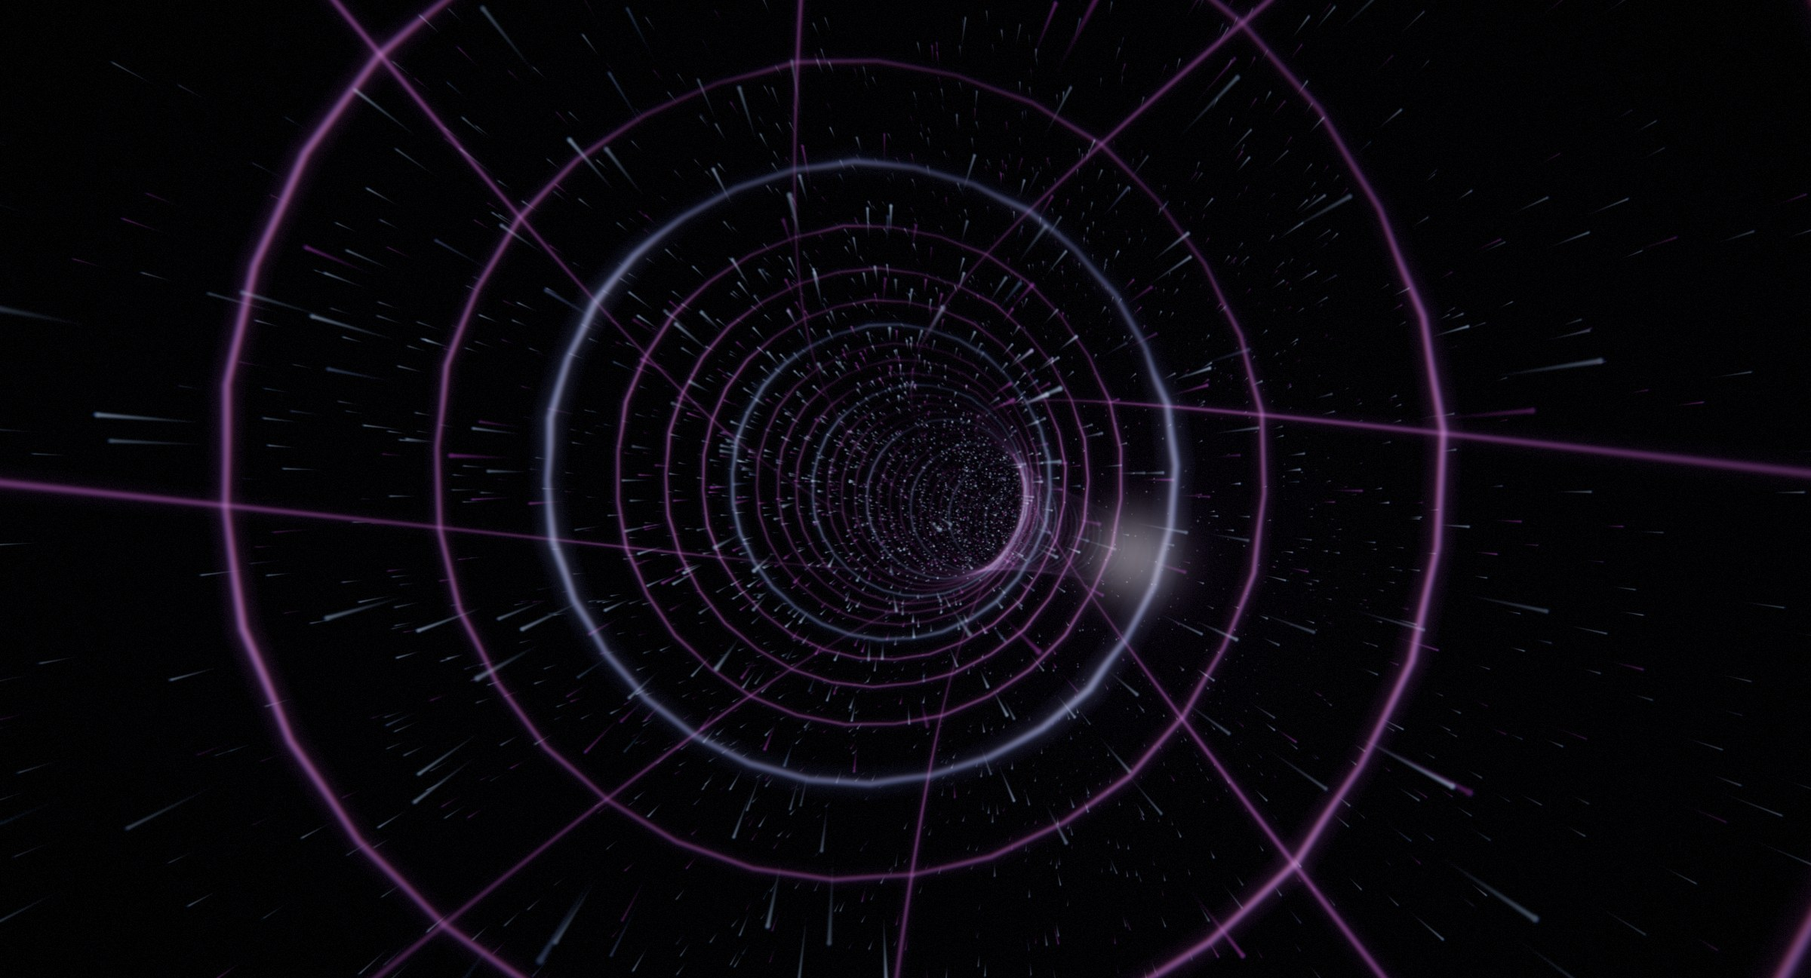
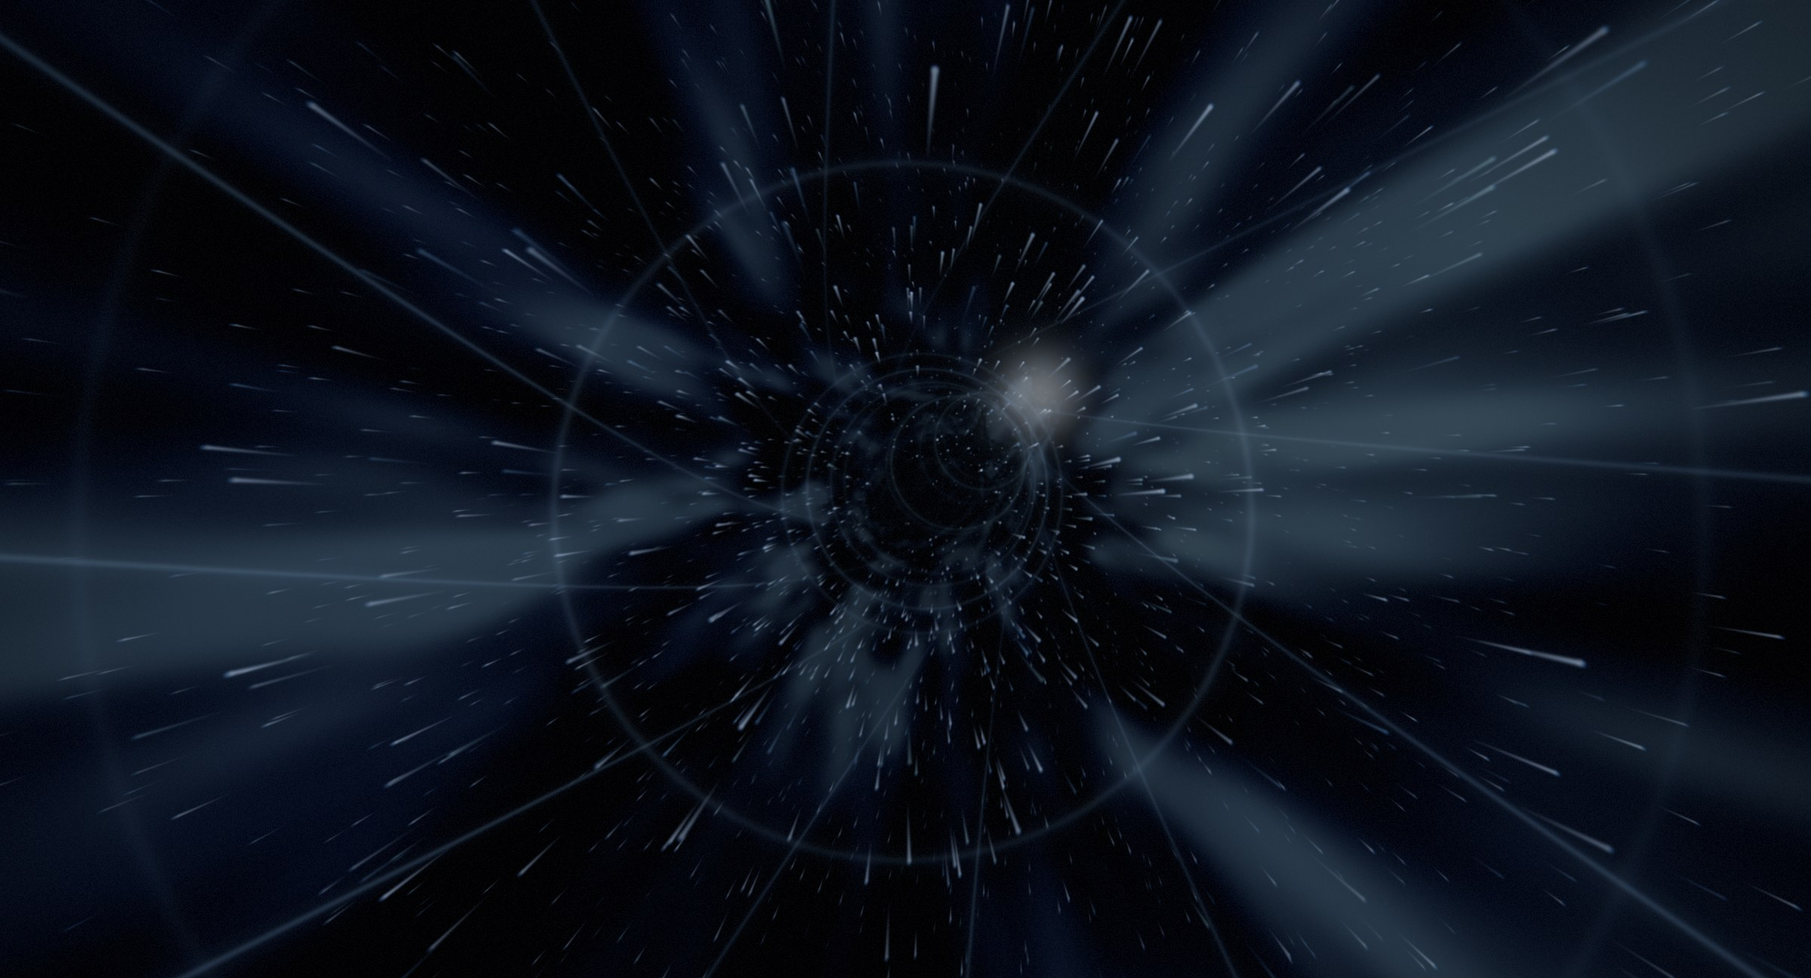
Warp: haze on the walls, hoops of mist, nothing keyed to the beat tracker
The first build was a wireframe, and it was intrusive in three ways: a
hard ring every eight units passing the camera was a rhythm of its own,
unrelated to the music's; a ring rushing past as a bar across the frame
was the loudest thing in the picture; and the pulses shot down the
tunnel on the tempo tracker's phase-locked beat landed a little off the
actual hits often enough to read as wrong.

So the walls are now a sleeve of haze - a quarter-resolution pass, like
the particle backdrop, that meets each eye ray with the bent tube by a
few fixed-point steps and clouds the wall there with noise in the
tunnel's own coordinates, long along the travel so it streams, lit
around its circumference by the slow spectrum, breathing with the bass.
The rings become faint, wide hoops of mist at no regular interval, a
third of them missing, each its own size and brightness, dissolving
before they reach the frame's edge. The rails become a dozen faint
threads. Nothing answers the beat tracker: what is immediate answers
the onset, gently - a small lurch, a touch on the nearest hoops, a
broad faint wave down the tunnel - and the rest follows the slow
envelopes. The dust inside the tube fades long before the space outside
does, since past a hundred units it all projected into one disc at the
vanishing point.

About two milliseconds at 2400x1285, most of it the haze.

Claude-Session: https://claude.ai/code/session_01URdTcD1Y9pgWXw1q6JwGKG

diff --git a/src/main.js b/src/main.js
@@ -79,7 +79,7 @@ class App {
     // The warp: the tunnel's travel, bend and light, all eased. It begins
     // somewhere along its period, so no two loads open on the same rings.
     this.warp = {
-      s: Math.random() * 7680, speed: 6, boost: 0, spin: 0, flow: 0, flowRate: 3,
+      s: Math.random() * 7680, travel: 0, speed: 6, boost: 0, spin: 0, flow: 0, flowRate: 3,
       kx: 0, ky: 0, gazeYaw: 0, gazePitch: 0, roll: 0,
       energy: 0, energySlow: 0, kick: 0, midEnv: 0, warm: 0,
       pitchShort: 0, pitchLong: 0, steer: 0, steerAvg: 0,
@@ -87,7 +87,7 @@ class App {
       pulses: [{ pos: 0, amp: 0 }, { pos: 0, amp: 0 }], refractory: 0, onsetArmed: true,
       flash: 0, flashArmed: true, shakeX: 0, shakeY: 0,
     };
-    this.warpUniforms = new Float32Array(24);
+    this.warpUniforms = new Float32Array(28);
     // The flight begins somewhere along its period, so no two loads open on
     // the same lights.
     this.voyage = {
@@ -623,8 +623,8 @@ class App {
     else if (voyage) { exposure = 1.04 + Math.min(0.10, a.level * 0.08); bloomStrength = Math.min(0.62, 0.44 + a.level * 0.16 + beatPulse * 0.05); grain = 0.006; }
     else if (warp) {
       const b = this.warp.boost;
-      exposure = 1.05 + Math.min(0.08, a.level * 0.06) + b * 0.08;
-      bloomStrength = Math.min(0.70, 0.46 + a.level * 0.14 + b * 0.10 + beatPulse * 0.04);
+      exposure = 1.05 + 0.06 * this.warp.energy + b * 0.08;
+      bloomStrength = Math.min(0.70, 0.46 + 0.12 * this.warp.energy + b * 0.10);
       grain = 0.007;
     }
 
@@ -642,9 +642,9 @@ class App {
       beat: a.beat * transientSens,
       beatAge: a.beatAge,
       flux: a.flux * sens,
-      // The flight reads a slower envelope: lights that flickered at the
-      // analyser's own attack looked nervous, not lit.
-      spectrum: voyage ? this.voyageSpectrum : spectrum,
+      // The flight and the warp read a slower envelope: lights that
+      // flickered at the analyser's own attack looked nervous, not lit.
+      spectrum: (voyage || warp) ? this.voyageSpectrum : spectrum,
       camZoom: this.cam.zoom,
       camAngle: this.cam.angle,
       camX: this.cam.x,
@@ -684,7 +684,7 @@ class App {
       currentStrands: current ? preset.sheets * preset.strands : 0,
       warp: this.warpUniforms,
       warpStars: warp ? preset.stars : 0,
-      warpRails: warp ? 8 : 0,
+      warpRails: warp ? 12 : 0,
       modeData: still ? this.modeData : null,
       plateGrains: still ? preset.grains : 0,
       composeCentreX: this.compose.x,
@@ -978,16 +978,22 @@ class App {
    * are all the music's, and the throttle is the user's.
    *
    * Speed is the phrase - level and density over the last second or so -
-   * braked almost to a stop by a lull, with a lurch on every beat that
-   * relaxes before the next; the held throttle adds a burn on top that
-   * ramps over a second and coasts off over a little longer, with a flash
-   * as it reaches full. Direction is the melody's: a line rising above
-   * where it has been sitting bends the tunnel upward, falling bends it
-   * down, and each phrase's inhale sweeps it left or right - the way the
-   * melody leans, else the other way from last time - for a few seconds.
-   * What is set is the curvature ahead, through a spring, never a heading;
-   * the camera looks into the bend and banks with it. The lattice spins
-   * with the mids and the speed; the beats shoot rings of light down it.
+   * braked almost to a stop by a lull, with a small lurch on a transient
+   * that relaxes before the next; the held throttle adds a burn on top
+   * that ramps over a second and coasts off over a little longer, with a
+   * flash as it reaches full. Direction is the melody's: a line rising
+   * above where it has been sitting bends the tunnel upward, falling bends
+   * it down, and each phrase's inhale sweeps it left or right - the way
+   * the melody leans, else the other way from last time - for a few
+   * seconds. What is set is the curvature ahead, through a spring, never a
+   * heading; the camera looks into the bend and banks with it. The lattice
+   * turns with the mids and the speed; a transient sends a faint wave of
+   * light down the tunnel.
+   *
+   * Nothing here is keyed to the tempo tracker's beat: its phase-locked
+   * pulse can sit a little off the hits, and a flash a little off the hit
+   * reads as wrong where no flash would not. The onset is the transient
+   * the analyser actually heard.
    */
   #updateWarp(dt, active) {
     const a = this.audio;
@@ -1020,13 +1026,14 @@ class App {
     const cruise = clamp((10 + w.energy * 42 + swell * 8) * brake * sens, 3, 70);
     const target = cruise + w.boost * w.boost * (110 + cruise * 2.2);
     w.speed += (target - w.speed) * tau(target > w.speed ? 0.7 : 1.4);
-    // The beat's lurch: a fraction of the speed for a moment, relaxing
-    // before the next beat so it cannot pile up.
-    const beatNow = a.beatAge < dt * 1.5;
-    w.kick *= Math.exp(-dt / 0.3);
-    if (beatNow) w.kick = Math.max(w.kick, clamp(a.beat, 0, 1.6) * 0.7 * gate);
-    const speedNow = w.speed * (1 + 0.22 * w.kick);
+    // A transient's lurch: a small fraction of the speed for a moment,
+    // relaxing before the next so it cannot pile up.
+    const onset = clamp(m.onset, 0, 1) * gate;
+    w.kick = Math.max(w.kick * Math.exp(-dt / 0.35), onset);
+    const speedNow = w.speed * (1 + 0.06 * w.kick);
     w.s = (w.s + speedNow * dt) % 7680;
+    // Unwrapped, for the haze's noise, which has no period to wrap in.
+    w.travel += speedNow * dt;
 
     // -- direction ---------------------------------------------------------------
     // The melody, relatively: a line above where it has been sitting.
@@ -1085,23 +1092,23 @@ class App {
     w.flowRate += (flowTarget - w.flowRate) * tau(1.0);
     w.flow = (w.flow + dt * w.flowRate) % (2 * Math.PI);
 
-    // -- the pulses --------------------------------------------------------------
-    // A beat shoots a ring of light down the tunnel from the camera when
-    // the tempo is trusted, else an onset does; two may be in flight.
+    // -- the waves ---------------------------------------------------------------
+    // A transient sends a broad, faint wave of light down the tunnel from
+    // the camera; two may be in flight, and a new one waits for a slot
+    // whose wave has faded.
     w.refractory = Math.max(0, w.refractory - dt);
     if (m.onset < 0.25) w.onsetArmed = true;
-    const onsetNow = trust <= 0.45 && m.onset > 0.5 && w.onsetArmed;
     const slot = w.pulses[0].amp <= w.pulses[1].amp ? 0 : 1;
-    if (((beatNow && trust > 0.45) || onsetNow) && w.refractory <= 0 && gate > 0.5 && w.pulses[slot].amp < 0.4) {
+    if (m.onset > 0.55 && w.onsetArmed && w.refractory <= 0 && gate > 0.5 && w.pulses[slot].amp < 0.2) {
       const p = w.pulses[slot];
       p.pos = w.s + 2;
-      p.amp = 0.5 + 0.5 * clamp(Math.max(a.beat, m.onset), 0, 1);
-      w.refractory = beatNow ? 0.25 : 0.6;
+      p.amp = 0.25 + 0.2 * onset;
+      w.refractory = 0.4;
       w.onsetArmed = false;
     }
     for (const p of w.pulses) {
-      p.pos = (p.pos + dt * (speedNow + 320)) % 7680;
-      p.amp *= Math.exp(-dt / 0.55);
+      p.pos = (p.pos + dt * (speedNow + 180)) % 7680;
+      p.amp *= Math.exp(-dt / 0.8);
     }
 
     // -- the grade's inputs ------------------------------------------------------
@@ -1127,6 +1134,7 @@ class App {
     u[14] = w.pulses[1].pos; u[15] = w.pulses[1].amp;
     u[16] = w.flash; u[17] = w.kick; u[18] = clamp(w.energy, 0, 1); u[19] = w.warm;
     u[20] = vpU; u[21] = vpV; u[22] = w.shakeX; u[23] = w.shakeY;
+    u[24] = w.travel;
   }
 
   /**

diff --git a/src/renderer.js b/src/renderer.js
@@ -29,14 +29,14 @@ const STRAND_VERTS = 450;
 // The warp's lattice: vertices per ring, (SIDES + 1) * 2, and per rail,
 // (RAIL_SEGS + 1) * 2, and the rings that cover its reach, FAR / spacing
 // plus one, all from warp.wgsl.
-const RING_VERTS = 66;
+const RING_VERTS = 130;
 const RAIL_VERTS = 194;
-const WARP_RINGS = 52;
+const WARP_RINGS = 30;
 
 const SPECTRUM_BINS = 128;
 const MODE_DATA_FLOATS = 4096;
 const PARTICLE_STRIDE = 40; // bytes: pos, vel, home, seed, life, depth, band
-const UNIFORM_FLOATS = 164;
+const UNIFORM_FLOATS = 168;
 
 const U = {
   resX: 0, resY: 1, invX: 2, invY: 3,
@@ -65,7 +65,7 @@ const U = {
 };
 const SCULPT_FLOATS = 28;
 const EMPTY_SCULPT = new Float32Array(SCULPT_FLOATS);
-const WARP_FLOATS = 24;
+const WARP_FLOATS = 28;
 const EMPTY_WARP = new Float32Array(WARP_FLOATS);
 
 function clamp01(value) {
@@ -536,9 +536,11 @@ export class Renderer {
     });
 
     // --- warp -------------------------------------------------------------
-    // The tunnel: its backdrop, then the stars, the rails and the rings,
+    // The tunnel: the haze on its walls, drawn small like the particle
+    // backdrop and blitted up, then the stars, the rails and the rings,
     // every one of them additive light with nothing to occlude, so there
-    // is no depth. The flight's bind group serves: uniforms and spectrum.
+    // is no depth. The haze reads the spectrum in the fragment stage, so
+    // it takes the backdrop's layout; the strips take the flight's.
     const warpStrip = (vs, fs) => d.createRenderPipeline({
       layout: voyagePl,
       vertex: { module: this.modules.warp, entryPoint: vs },
@@ -549,12 +551,12 @@ export class Renderer {
       },
       primitive: { topology: 'triangle-strip' },
     });
-    this.warpBgPipeline = d.createRenderPipeline({
-      layout: voyagePl,
+    this.warpHazePipeline = d.createRenderPipeline({
+      layout: d.createPipelineLayout({ bindGroupLayouts: [this.bgLayout] }),
       vertex: { module: this.modules.warp, entryPoint: 'vsFull' },
       fragment: {
         module: this.modules.warp,
-        entryPoint: 'bgFs',
+        entryPoint: 'hazeFs',
         targets: [{ format: 'rgba16float' }],
       },
       primitive: { topology: 'triangle-list' },
@@ -1162,7 +1164,7 @@ export class Renderer {
       pass.end();
     }
 
-    if (particle) {
+    if (particle || warp) {
       const pass = encoder.beginRenderPass({
         label: 'background-quarter',
         colorAttachments: [{
@@ -1172,7 +1174,7 @@ export class Renderer {
           storeOp: 'store',
         }],
       });
-      pass.setPipeline(this.bgPipeline);
+      pass.setPipeline(warp ? this.warpHazePipeline : this.bgPipeline);
       pass.setBindGroup(0, this.bgBindGroup);
       pass.draw(3);
       pass.end();
@@ -1228,11 +1230,12 @@ export class Renderer {
         pass.setPipeline(this.voyagePipeline);
         pass.draw(4, skyCount + lightCount);
       } else if (warp) {
-        // The tunnel: the backdrop with its core, the stars, the rails,
-        // the rings.
-        pass.setBindGroup(0, this.voyageBindGroup);
-        pass.setPipeline(this.warpBgPipeline);
+        // The tunnel: the haze and the core, expanded from the small
+        // target, then the stars, the rails, the rings.
+        pass.setPipeline(this.blitPipeline);
+        pass.setBindGroup(0, this.blitBindGroup);
         pass.draw(3);
+        pass.setBindGroup(0, this.voyageBindGroup);
         if (starCount > 0) {
           pass.setPipeline(this.warpStarPipeline);
           pass.draw(4, starCount);

diff --git a/README.md b/README.md
@@ -97,14 +97,21 @@ Five rendering approaches, different algorithms rather than different settings, 
 Its five styles are below.
 
 **warp** is a tunnel, flown through, with the throttle in your hand.
-A lattice of light - a ring every eight units, every fourth a gate in the accent colour, and eight rails running the length of it, corkscrewing slowly - with a field of stars inside the tube and in the space beyond its walls, seen from a camera travelling down its axis toward the light at the far end.
+A sleeve of haze on the tunnel's walls, streaming past; hoops of mist along it at no regular interval, a quarter of them gates in the accent colour; a dozen faint threads running its length, corkscrewing slowly; and a field of stars inside the tube and in the space beyond its walls - all seen from a camera travelling down its axis toward the light at the far end.
 It is the piece's answer to the hyperspace jump: hold the pointer, or shift, and the flight burns from a cruise of a few dozen units a second to well over two hundred - the stars draw out into streaks, the frame streams toward the vanishing point, the colour splits, the image shakes, and a flash marks the jump; let go and it coasts back down.
 
 ![the warp, bending into a phrase](docs/warp.jpg)
 
 ![under the burn](docs/warp-burn.jpg)
 
-Nothing here is stored: every ring, rail sample and star is derived in the vertex stage from its instance index, a hash and the distance travelled, drawn into the same HDR target as the particles so the bloom and the grade are shared, and the whole mode costs about half a millisecond at 2400x1285.
+The haze is a fullscreen pass drawn at quarter resolution and expanded, like the particle backdrop: for each pixel the eye ray is met with the tube - solved on the bent arc by a few fixed-point steps from the straight tube's answer - and the wall there is a cloud of noise in the tunnel's own coordinates, long along the travel and narrow around it, so it streams; it is dim right beside the lens, fullest in the middle distance, and dissolves far ahead into the core.
+Nothing else is stored: every hoop, thread sample and star is derived in the vertex stage from its instance index, a hash and the distance travelled.
+All of it is drawn into the same HDR target as the particles so the bloom chain and the grade are shared, and the whole mode costs about two milliseconds at 2400x1285, most of it the haze, against the particle pass's three at the same size.
+
+The first build of this was a wireframe - a hard ring every eight units, every fourth a gate, the beat tracker's pulses shot down them - and it was intrusive in three ways worth recording.
+Evenly spaced rings passing the camera are a rhythm of their own, and one that has nothing to do with the music's; so the hoops now sit off their stations by up to forty percent, a third are missing, and each has its own brightness and size.
+A ring rushing past as a bar across the frame is the loudest thing in the picture; so the hoops dissolve before they reach the frame's edge.
+And a flash keyed to the tempo tracker's phase-locked beat lands a little off the actual hit often enough to read as wrong, where no flash at all would not; so nothing here answers the beat tracker - what is immediate answers the onset, the transient the analyser actually heard, and gently, and everything else follows the slow envelopes.
 
 The tunnel is built in the camera's own frame.
 Ahead of the camera it is a circular arc, and the music sets that arc's curvature: a point at arc distance *d* sits on the arc in a frame carried along it, so while the curvature holds steady the travel is exactly what a camera following the bend would see, and when the curvature changes the road ahead visibly re-bends toward the new direction.
@@ -114,13 +121,14 @@ The phrases sweep it left and right: each inhale - the last second sitting above
 The curvature follows through a spring, never a heading; the camera looks into the bend the way a driver does and banks into it, so the vanishing point, and the core of light at it, move across the frame with the turn.
 A lull straightens the road, and the burn gentles the bends, or the tunnel whips.
 
-The speed is the phrase: level and density over the last second, braked almost to a stop by a lull, with a lurch on every beat that relaxes before the next.
-The rings read the spectrum around their circumference - the bass at the floor, the top of the band at the ceiling, mirrored on the two sides - so the tunnel is a spectrum seen down its own axis, its loud sides bright and thick and its quiet ones nearly gone; they breathe with the bass, and every beat shoots a ring of light down the tunnel ahead.
-The rails carry a wave of light toward the lens, one per beat while the tempo is trusted.
-The lattice spins with the mids and the speed; the stars sparkle with the highs, fill in as the music fills, and thin in a lull.
-The colour is the mood's cool bank, travelling as the harmony does, with the gates in the accent.
+The speed is the phrase: level and density over the last second, braked almost to a stop by a lull, with a small lurch on a transient that relaxes before the next.
+The walls and the hoops read the spectrum around the tunnel's circumference - the bass at the floor, the top of the band at the ceiling, mirrored on the two sides, and the slow envelope rather than the analyser's own attack - so the tunnel is a spectrum seen down its own axis, softly; the walls breathe with the bass, fill with the phrase and thin in a lull; a transient brightens the nearest hoops a little and sends a broad, faint wave of light down the tunnel ahead.
+The threads carry a slow flow of light toward the lens, one wave per beat while the tempo is trusted, else at the mids' pace.
+The lattice turns with the mids and the speed, and the haze turns with it; the stars sparkle with the highs, fill in as the music fills, and thin in a lull.
+The colour is the mood's cool bank, travelling as the harmony does, with slow bands of hue along the walls and the gates in the accent.
 
-The travel wraps every 7680 units, which the ring spacing, the stars' window and the corkscrew all divide, so the wrap is invisible and float precision holds however long the flight; the star field is spread wider and faded by depth well before the far end, since a field seen deeper than it is wide otherwise bunches into a knot at the vanishing point.
+The travel wraps every 7680 units, which the hoops' stations, the stars' window and the corkscrew all divide, so the wrap is invisible and float precision holds however long the flight; the haze's noise has no period to wrap in, so it scrolls on the unwrapped distance instead, whose precision is ample for a session.
+The star field is spread wider and faded by depth well before the far end, since a field seen deeper than it is wide otherwise bunches into a knot at the vanishing point.
 
 **voyage** is a flight.
 A camera moves fast along a slowly curving path through a field of lights in the black, and the piece is what passes it: every light draws a trail across the frame, bright at its head and fading down its tail, short when the music rests and long when it drives, near ones sweeping by in arcs and swelling into soft discs.

diff --git a/HANDOFF.md b/HANDOFF.md
@@ -19,8 +19,8 @@ wires any of them.
 | `zoom` | Optional interactive zoom multiplier applied on top of existing `camZoom`. Do not pass it if wheel zoom is already folded into `camZoom`. | Recommended `0.68..1.75` | `1`. |
 | `interactionGlow` | Optional art-direction override for the subtle local pointer/path afterglow. | `0..1` | Derived from pointer hold, burst envelope, and painted-path persistence. |
 | `mode` | Render mode. `0` runs the particle simulation; `1` runs the voyage flight, which skips the flow, sim and backdrop passes and draws the light field instead; `2` runs the current, the strand sculpture flown through along the flight path; `3` the plate, which draws its own scene from `modeData` and skips the field; `4` the warp, the tunnel flown through, drawn from `warp` as additive light with no depth. | `0..4` | `0`. |
-| `warp` | The warp's uniforms, twenty-four floats filled by `#updateWarp` in `main.js`: distance travelled, speed, boost and spin; the curvature vector of the arc ahead and the gaze; the bank, the flow phase, and the rail and star counts (which the renderer writes from the two fields below); two pulses, each a position in travel units and an amplitude; the flash, the beat kick, the energy and the warmth; the vanishing point and the shake offset, both in uv. The layout is documented on the `warp*` fields in `common.wgsl`. | `Float32Array(24)` | zeros. |
-| `warpStars` `warpRails` | Instance counts for the warp's star field and its rails; the quality presets supply the stars and the rails are eight. `0` draws none. | stars: see `main.js` presets; rails: `0` or `8` | `0`. |
+| `warp` | The warp's uniforms, twenty-eight floats filled by `#updateWarp` in `main.js`: distance travelled (wrapped), speed, boost and spin; the curvature vector of the arc ahead and the gaze; the bank, the flow phase, and the thread and star counts (which the renderer writes from the two fields below); two waves, each a position in travel units and an amplitude; the flash, the onset's kick, the energy and the warmth; the vanishing point and the shake offset, both in uv; the distance travelled unwrapped, for the haze. The layout is documented on the `warp*` fields in `common.wgsl`. | `Float32Array(28)` | zeros. |
+| `warpStars` `warpRails` | Instance counts for the warp's star field and its threads; the quality presets supply the stars and the threads are twelve. `0` draws none. | stars: see `main.js` presets; rails: `0` or `12` | `0`. |
 | `modeData` | The plate's data for the GPU, filled by `#updatePlate` in `main.js` and uploaded to a storage buffer: a header of sixteen floats, then the modes. `plate.wgsl` documents the layout. | `Float32Array(4096)` | none. |
 | `plateGrains` | Grain count for the plate, from the quality preset; the renderer rebuilds the grain buffer when it changes. | `120000..700000` | `0`. |
 | `sculpt` | The sculpture's uniforms, twenty-eight floats filled by `#updateSculpture` in `main.js`: normalised bass, mid, lull and phrase energy; flow phase, evolution clock, strands per sheet and sheet count; two travelling pulses and the entry pulse, each a position in path units and an amplitude; the echo's and the veil's gain; intensity, warm emphasis and a third pulse; shimmer, the first roll station in view and the closures of the six stations from it. The camera is the flight's (`voyageZ` and the `voyage*` gaze fields). The layout is documented on the `sculpt*` fields in `common.wgsl`. | `Float32Array(28)` | zeros. |
